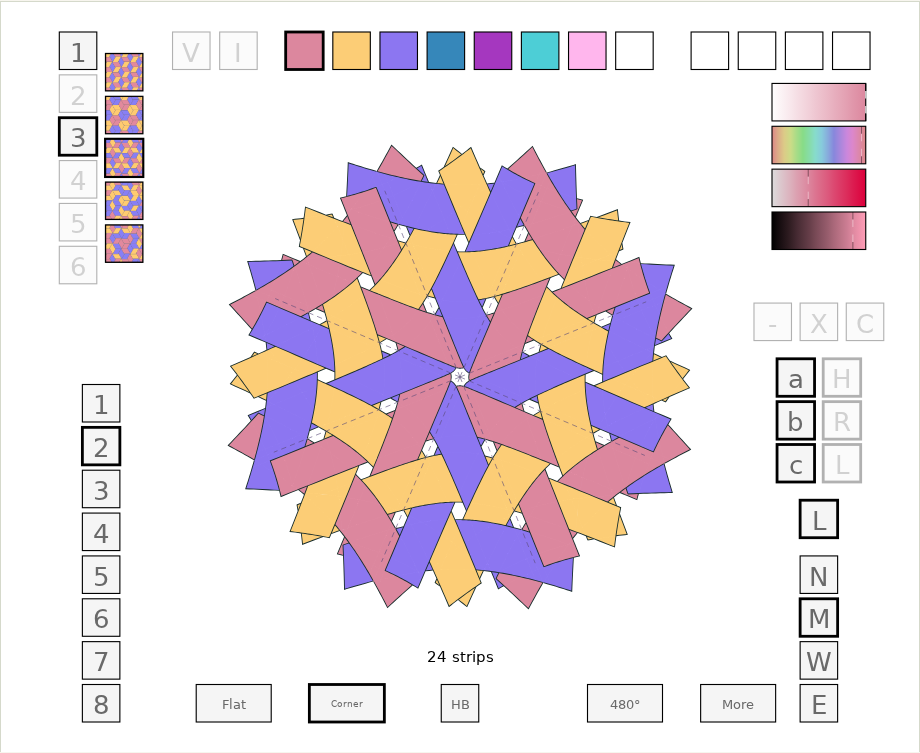
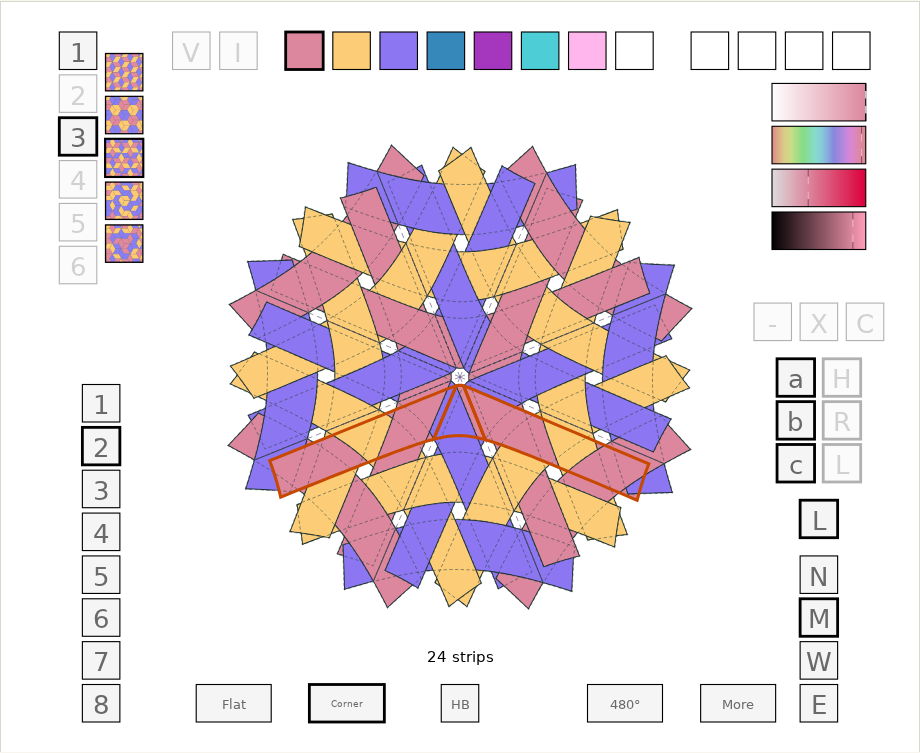
docs: combine corner inspection and explain the gallery [skip ci]

diff --git a/docs/SCREENSHOTS.md b/docs/SCREENSHOTS.md
@@ -1,10 +1,10 @@
 # README screenshot reproduction
 
-The five PNGs in `docs/images/` are actual screenshots of the integrated editor,
+The four PNGs in `docs/images/` are actual screenshots of the integrated editor,
 served from the allowlisted build at `/madweave/editor.html`. They are not
 prototype UI or generated illustrations. The capture script sets repeatable
-palettes through the application model and uses the real controls for pattern,
-spacing, visibility, construction and inspection choices.
+palettes and whole-strip colors through the application model and uses the real
+controls for pattern, spacing, visibility, construction and inspection choices.
 
 The first image reopens `madweave.svg` through **Open Project**, rebuilding the
 original design with the current software. The file matches
@@ -27,22 +27,22 @@ npm run screenshots
 On Linux, install browser system dependencies as described in
 [browser setup](BROWSER_TEST_SETUP.md). `MADWEAVE_CHROMIUM_EXECUTABLE` optionally
 selects an existing Chromium executable. The first image used Chromium
-153.0.8010.12, as did the other four. All used Playwright 1.63.0, a
+153.0.8010.12, as did the other three. All used Playwright 1.63.0, a
 1000 × 1000 viewport and device scale 1.
-Captures crop to the canvas, or from the mode selector through the complete
-canvas. No UI is restyled or removed. The inspector is closed for the ordinary
-construction/warning views; pointer hover text is dismissed before capture.
+Captures crop to the canvas, including the original controls. No UI is restyled
+or removed. Inspection choices are made through the inspector above the canvas;
+the README explains the markings beside the picture. Pointer hover text is
+dismissed before capture.
 
 | Image | Reproducible state |
 | --- | --- |
 | `planar-original.png` | Original SVG reopened in the current editor: size 2 (six strips per direction), direction formula, three colors, medium spacing; original pink/gold/violet palette |
 | `planar-open.png` | Size 4, original pink/gold/violet palette, group formula (fourth preview), three opaque colors, narrow spacing, only b class visible, L enabled |
-| `corner-construction.png` | Displaced sixfold phase, size 2, 480°, 24 strips with individual ends, direction + class formula, original palette and control positions, L enabled |
-| `corner-inspection.png` | Same construction, first crossing's next local position, hidden outlines and seam partners enabled |
-| `corner-translucent-warning.png` | Displaced sixfold phase, size 2, 420°, 21 strips with individual ends, direction formula; blue/coral/violet at 0.65/0.55/0.70 opacity, deliberate seam warnings |
+| `corner-construction.png` | Displaced sixfold phase, size 2, 480°, 24 strips with individual ends, direction + class formula, original palette, L enabled; first crossing's next local position selected, hidden outlines and seam partners enabled |
+| `corner-colors.png` | Same construction and formula; blue/coral/violet at 0.65/0.80/0.55 opacity; inspected strip painted opaque gold, another whole strip painted opaque teal; inspection and L off, no seam color warnings |
 
 Review every regenerated image at the README's approximate 830-pixel display
-width as well as full size. Check full drawing bounds, selected controls, warning
-legibility, caption accuracy and absence of hover text. PNGs total about 1 MiB.
+width as well as full size. Check full drawing bounds, selected controls, strip
+edges and inspection markings, caption accuracy and absence of hover text. PNGs total about 0.5 MiB.
 They are repository documentation and deliberately remain outside the site's
 public-file allowlist.

diff --git a/README.md b/README.md
@@ -16,19 +16,16 @@ editable SVG, an eight-color palette, strip painting, and portable project files
 Screenshots below come from the built editor. Click an image for full size.
 
 ![Original pink, gold and violet weave, with six strips per direction and the editor controls visible](docs/images/planar-original.png)
-*The [original MadWeave design](https://fiberwoman.com/madweave/madweave.svg), reopened and rendered by the current editor.*
+The [original MadWeave design](https://fiberwoman.com/madweave/madweave.svg), reopened in the current editor. It has six strips in each of three directions—18 strips in all. Each direction has its own color, so you can follow the strips over and under one another. The bottom buttons switch between Flat and Corner views.
 
 ![Open hexweave with pink, gold and violet repeating across parallel strips and forming a pink star outline](docs/images/planar-open.png)
-*Colors repeat across parallel strips, forming a pink star outline in the open hexweave. Edge lines show the crossings.*
+Here only the **b** class is visible, leaving twelve strips in an open hexweave. The fourth color pattern repeats pink, gold and violet across parallel strips, producing the pink star outline. The strips are opaque, and thin edge lines show which strip passes over another at each crossing.
 
-![Corner diagram with the original palette and control positions, a 480 degree angle, bottom view buttons, and strip-edge lines](docs/images/corner-construction.png)
-*Size 2 at 480° has 24 strips with individual ends. The original controls and palette remain; L draws lines at the strip edges.*
+![480 degree corner with strip-edge lines, an orange outline following one joined strip, and dashed hidden edges and sector boundaries](docs/images/corner-construction.png)
+This corner uses **size 2** at **480°**, giving 24 strips with individual ends. **L** adds black lines along the strip edges. The orange outline follows one entire joined strip, including the parts covered by other strips. Fine dashed lines trace hidden edges; radial dashed lines mark where the drawing's sectors meet. Open **More → Strip and seam inspection** to follow strips and select the material underneath a crossing.
 
-![Orange joined-strip outline crossing sector seams, with dashed hidden material and seam partners](docs/images/corner-inspection.png)
-*Inspection follows one joined strip through visible and hidden positions; orange marks its material identity.*
-
-![Translucent blue, coral and violet corner diagram with pink seam markers and a visible continuity warning](docs/images/corner-translucent-warning.png)
-*Transparency shows overlapping material. Pink markers deliberately flag a formula's color changes across seams.*
+![The same corner with translucent blue, coral and violet strips, an opaque gold strip and an opaque teal strip](docs/images/corner-colors.png)
+The same construction with a different palette and two individually painted strips. Blue, coral and violet are partly transparent, revealing the material underneath and color blends at overlaps. The gold strip is the one outlined in orange above; it and the teal strip are fully opaque. Painting changes the whole joined strip, including its hidden parts, while opacity controls how much you can see through it.
 
 [Capture script](scripts/capture_readme.cjs) · [Screenshot reproduction](docs/SCREENSHOTS.md)
 
